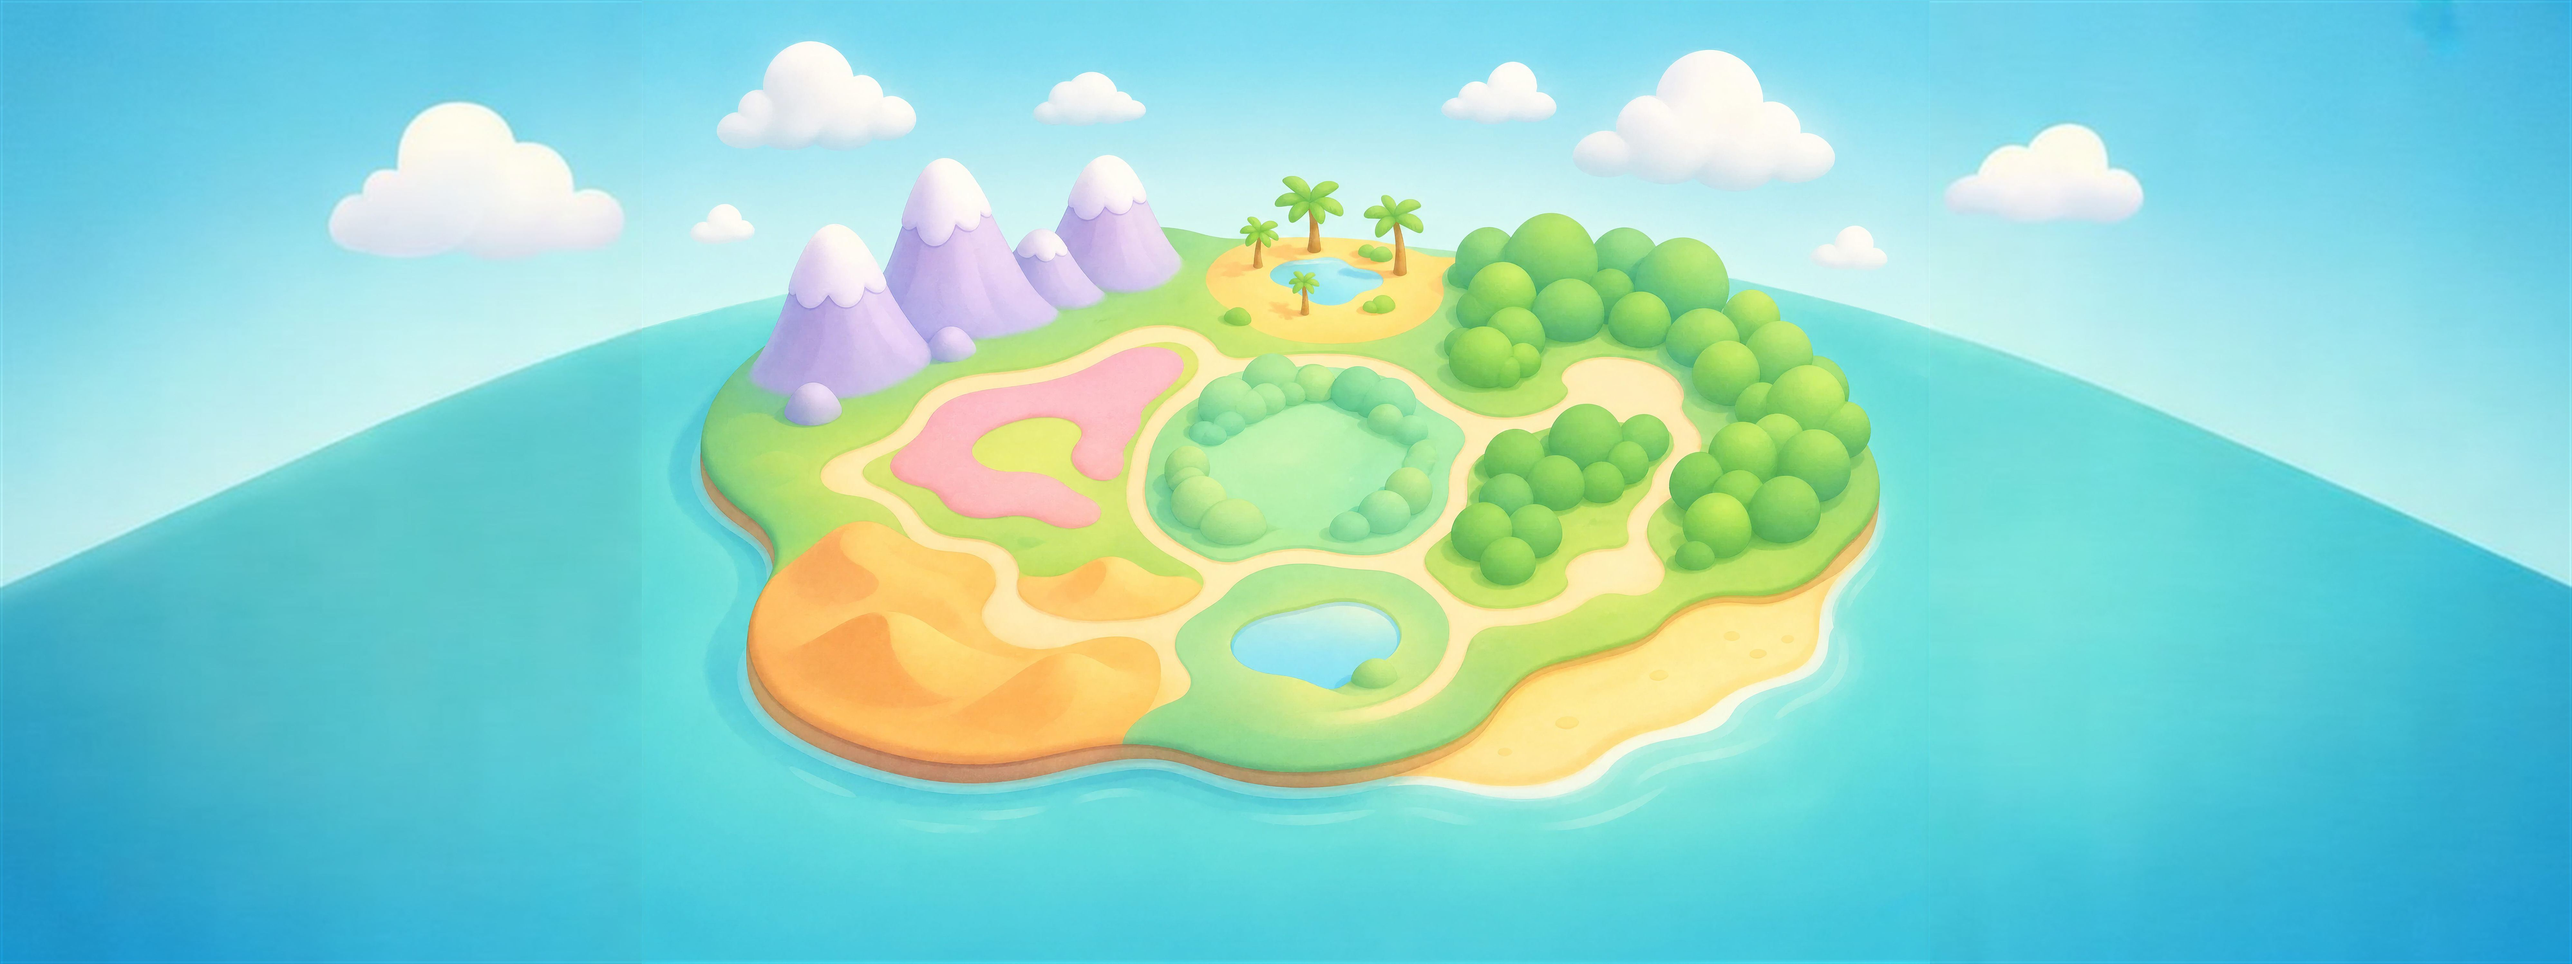
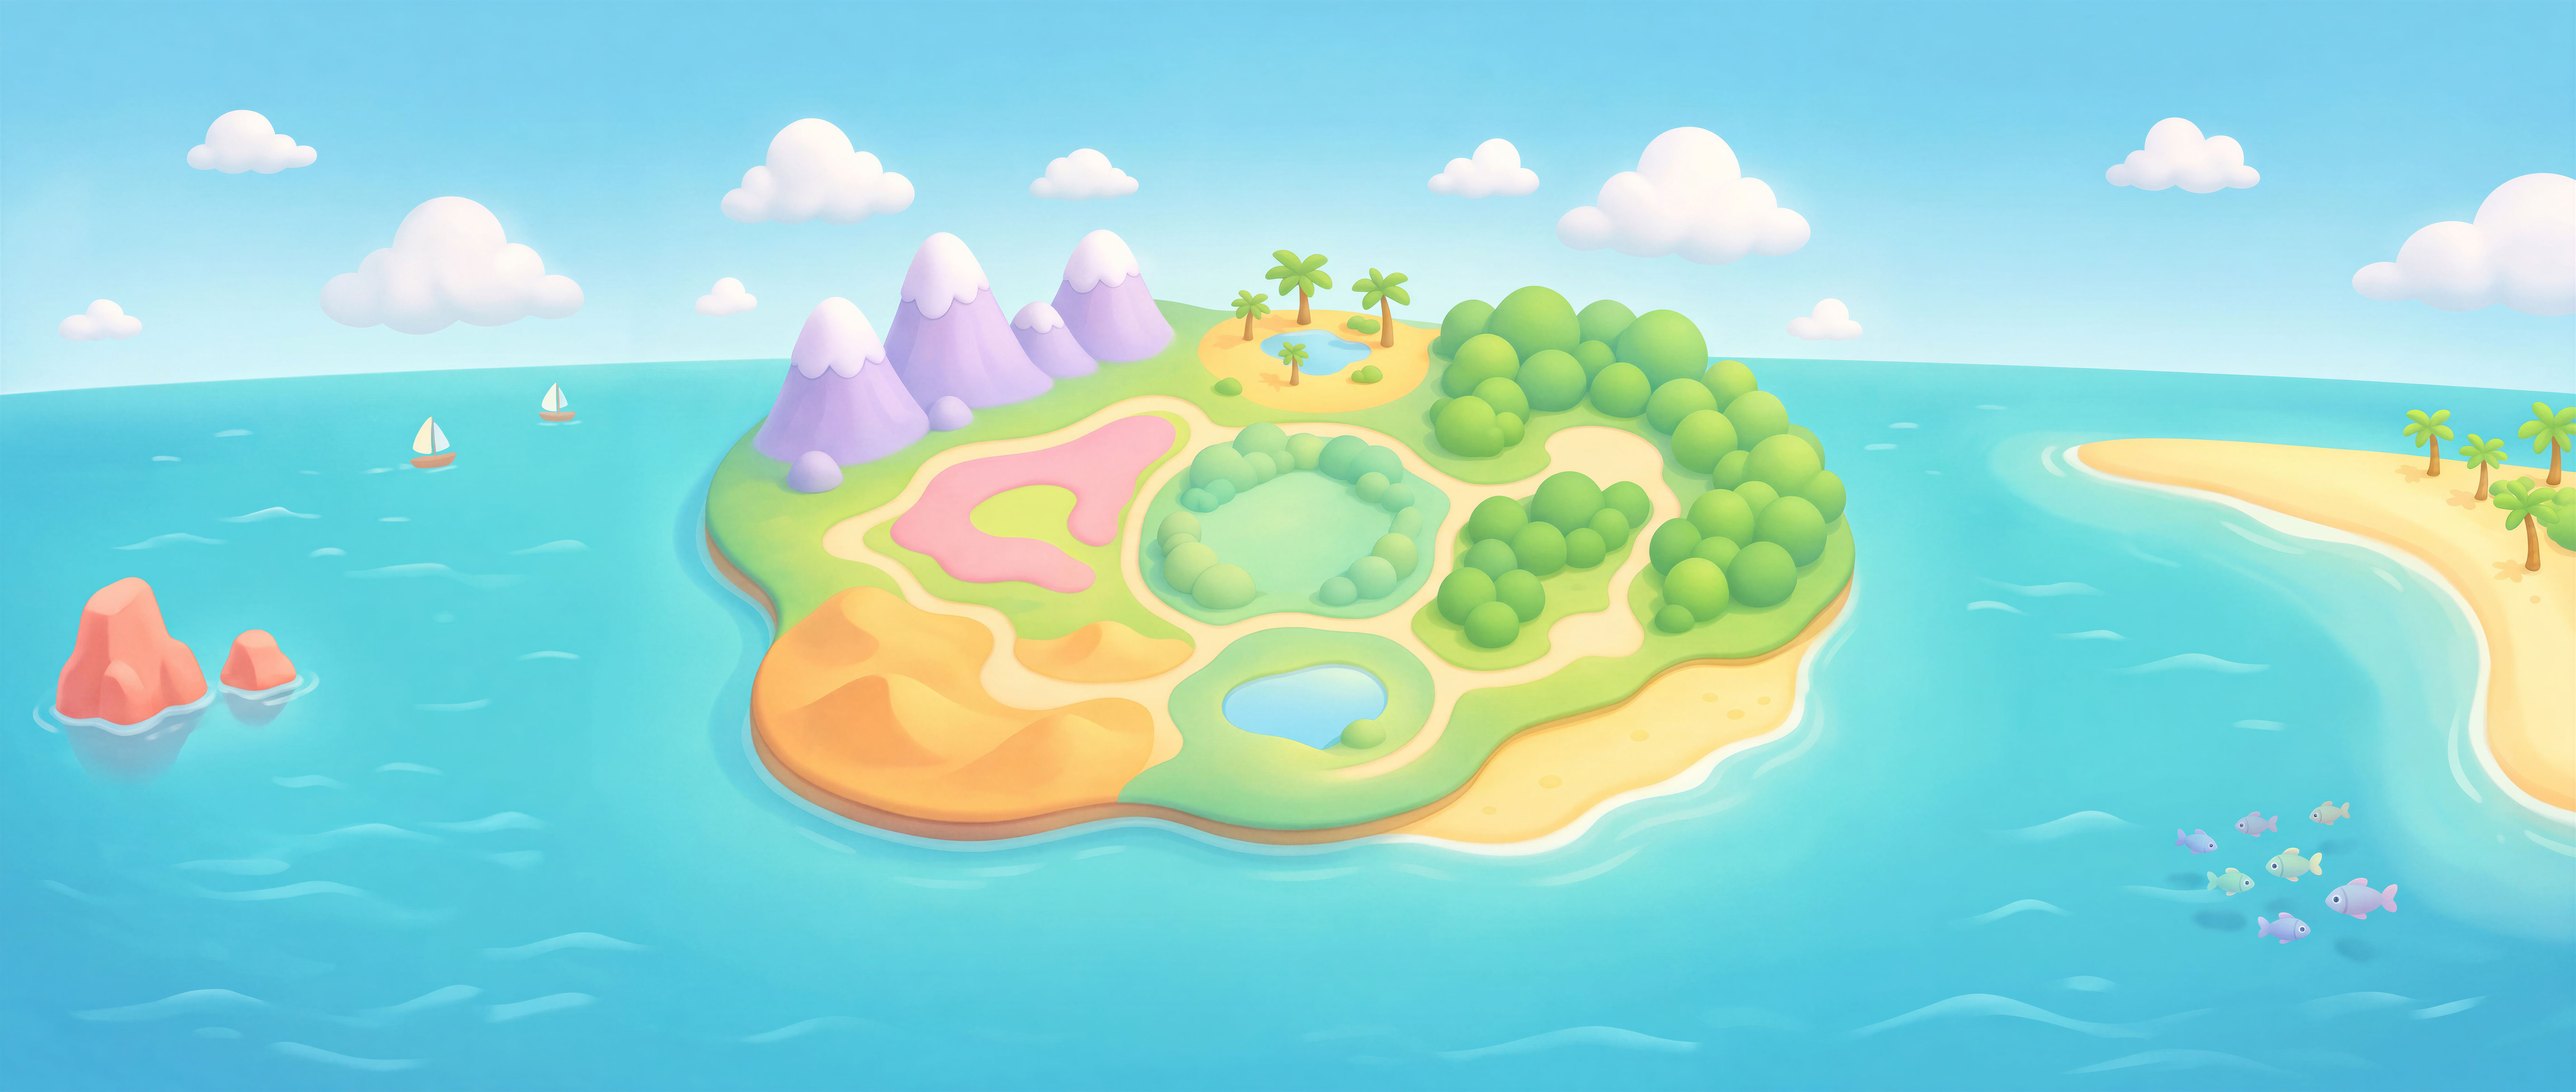
Replace the stitched sides with one seamless, sharper wide background
The island background is re-expanded as a single image with a flatter
horizon (boats, rocks and a far beach on the sides), then upscaled 2x.
No more seam where the old sides met the island. The camera can also
drift a little into the sky and sea above and below on wide screens.

diff --git a/index.html b/index.html
@@ -26,7 +26,7 @@ button:focus-visible, a:focus-visible { outline: 3px solid var(--ink); outline-o
 .world { position: absolute; left: 0; top: 0; width: 1440px; height: 1024px; transform-origin: 0 0; will-change: transform;
 }
 /* the sea and sky run on past both sides of the island so wide screens never show empty bands */
-.sea { position: absolute; left: -718px; top: -27px; width: 2876px; height: 1079px; background: url(img/map-wide.jpg) 0 0 / 100% 100% no-repeat; pointer-events: none; }
+.sea { position: absolute; left: -760px; top: -120px; width: 3001px; height: 1273px; background: url(img/map-wide.jpg) 0 0 / 100% 100% no-repeat; pointer-events: none; }
 .world.flying { transition: transform .38s cubic-bezier(.3,.7,.2,1); }
 .trail { position: absolute; inset: 0; pointer-events: none; }
 
@@ -201,7 +201,7 @@ button:focus-visible, a:focus-visible { outline: 3px solid var(--ink); outline-o
 (() => {
   const W = 1440, H = 1024, MAX_ZOOM = 2.5;
   // painted sea beyond the island, in world units
-  const SEA_L = -718, SEA_R = 2158;
+  const SEA_L = -760, SEA_R = 2241, SEA_T = -120, SEA_B = 1153;
   const ISLANDS = [
     { id: 'ai', title: 'ورشة السحر', sub: 'اصنع قصة أو فيديو أنت بطله', x: 1285, y: 196, c: '#B9A8F7', d: '#7B64DA', chips: [['I-11', 3], ['I-14', 1]] },
     { id: 'peak', title: 'قمة الأبطال', sub: 'شارك في المسابقات', x: 260, y: 330, c: '#FF7A6B', d: '#E0584A' },
@@ -248,7 +248,8 @@ button:focus-visible, a:focus-visible { outline: 3px solid var(--ink); outline-o
     const ww = W * s, wh = H * s;
     const sw = (SEA_R - SEA_L) * s;
     const x = sw <= v.w ? (v.w - ww) / 2 : Math.min(-SEA_L * s, Math.max(v.w - SEA_R * s, c.x));
-    const y = wh <= v.h ? (v.h - wh) / 2 : Math.min(0, Math.max(v.h - wh, c.y));
+    const sh = (SEA_B - SEA_T) * s;
+    const y = sh <= v.h ? (v.h - wh) / 2 : Math.min(-SEA_T * s, Math.max(v.h - SEA_B * s, c.y));
     return { s, x, y };
   }
   function apply(c, animate) {
@@ -268,7 +269,7 @@ button:focus-visible, a:focus-visible { outline: 3px solid var(--ink); outline-o
     const s = cam.s * factor;
     apply({ s, x: px - (px - cam.x) * (s / cam.s), y: py - (py - cam.y) * (s / cam.s) }, animate);
   }
-  const whole = (animate) => { const s = fit(); apply({ s, x: (view().w - W * s) / 2, y: 0 }, animate); };
+  const whole = (animate) => { const s = fit(), v = view(); apply({ s, x: (v.w - W * s) / 2, y: (v.h - H * s) / 2 }, animate); };
 
   // tap an island: the camera flies in, then the region opens
   function flyTo(i) {
